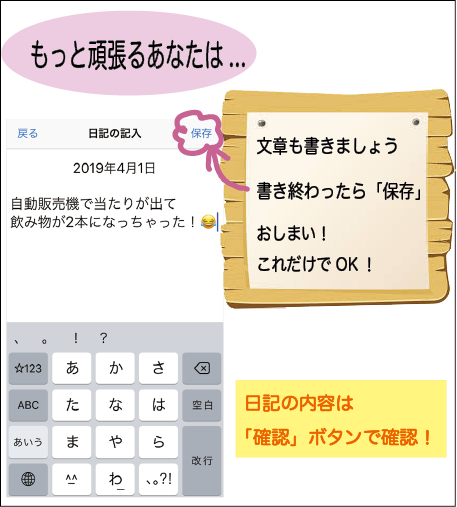
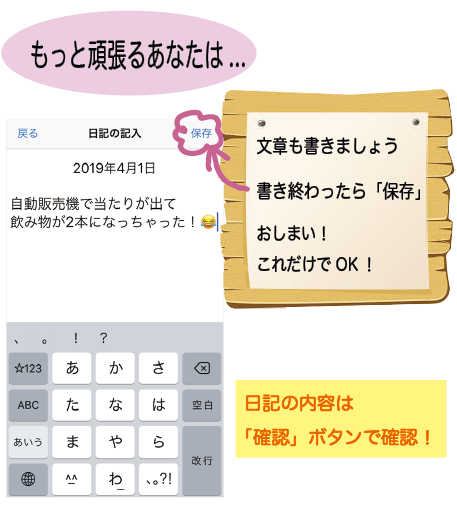
ヘルプ画面のスワイプ機能の実装、ヘルプ画面の画像の黒い枠を消した、アプデにむけて一旦アラーム設定のボタンをHidden

Changed region(s): [[0.0, 0.0, 1.0, 1.0], [0.0, 0.0, 0.0306, 0.0296]]

diff --git a/SimpleDiary_LiT!/AppDelegate.swift b/SimpleDiary_LiT!/AppDelegate.swift
@@ -12,9 +12,17 @@ import UserNotifications
 
 @UIApplicationMain
 class AppDelegate: UIResponder, UIApplicationDelegate {
-
+    
     var window: UIWindow?
-
+    var icon1 = 0
+    var icon2 = 0
+    var icon3 = 0
+    var icon4 = 0
+    var icon5 = 0
+    var icon6 = 0
+    var context: String!
+    var date: String!
+    
     func application(_ application: UIApplication, didFinishLaunchingWithOptions launchOptions: [UIApplication.LaunchOptionsKey: Any]?) -> Bool {
         // Override point for customization after application launch.
         
@@ -44,51 +52,59 @@ class AppDelegate: UIResponder, UIApplicationDelegate {
             UIApplication.shared.registerUserNotificationSettings(settings)
         }
         
-        let content = UNMutableNotificationContent()
-        content.title = "お知らせ"
-        content.subtitle = ""
-        content.body = "今日の記録は済みましたか？"
+        let dateFormater = DateFormatter()
+        dateFormater.locale = Locale(identifier: "ja_JP")
+        dateFormater.dateStyle = .long
+        let now = dateFormater.string(from: Date())
+        date = now
         
-        let component = DateComponents(calendar: Calendar.current, /*year: 2019, month: 6, day: 6, */hour: 12, minute: 43)
-        let trigger = UNCalendarNotificationTrigger(dateMatching: component, repeats: true)
-        
-        let request = UNNotificationRequest(identifier: "Identifier", content: content, trigger: trigger)
-        let center = UNUserNotificationCenter.current()
-        center.delegate = self as? UNUserNotificationCenterDelegate
-        center.add(request)
-        
-        // ローカル通知予約
-        UNUserNotificationCenter.current().add(request, withCompletionHandler: nil)
-        
+        let realm = try! Realm()
+        //文字列によるクエリ
+        if realm.objects(Diary.self).filter("date == '\(self.date!)'").last == nil {
+            print("データはありません")
+            let content = UNMutableNotificationContent()
+            content.title = "お知らせ"
+            content.subtitle = ""
+            content.body = "今日の記録は済みましたか？"
+            
+            let component = DateComponents(calendar: Calendar.current, /*year: 2019, month: 6, day: 6, */hour: 21, minute: 00)
+            let trigger = UNCalendarNotificationTrigger(dateMatching: component, repeats: true)
+            
+            let request = UNNotificationRequest(identifier: "Identifier", content: content, trigger: trigger)
+            let center = UNUserNotificationCenter.current()
+            center.delegate = self as? UNUserNotificationCenterDelegate
+            center.add(request)
+            
+            // ローカル通知予約
+            UNUserNotificationCenter.current().add(request, withCompletionHandler: nil)
+        }
         return true
     }
     
     func applicationWillTerminate(application: UIApplication) {
         print("フリックしてアプリを終了させた時に呼ばれる")
     }
-
+    
     func applicationWillResignActive(_ application: UIApplication) {
         // Sent when the application is about to move from active to inactive state. This can occur for certain types of temporary interruptions (such as an incoming phone call or SMS message) or when the user quits the application and it begins the transition to the background state.
         // Use this method to pause ongoing tasks, disable timers, and invalidate graphics rendering callbacks. Games should use this method to pause the game.
     }
-
+    
     func applicationDidEnterBackground(_ application: UIApplication) {
         // Use this method to release shared resources, save user data, invalidate timers, and store enough application state information to restore your application to its current state in case it is terminated later.
         // If your application supports background execution, this method is called instead of applicationWillTerminate: when the user quits.
     }
-
+    
     func applicationWillEnterForeground(_ application: UIApplication) {
         // Called as part of the transition from the background to the active state; here you can undo many of the changes made on entering the background.
     }
-
+    
     func applicationDidBecomeActive(_ application: UIApplication) {
         // Restart any tasks that were paused (or not yet started) while the application was inactive. If the application was previously in the background, optionally refresh the user interface.
     }
-
+    
     func applicationWillTerminate(_ application: UIApplication) {
         // Called when the application is about to terminate. Save data if appropriate. See also applicationDidEnterBackground:.
     }
-
-
 }
 

diff --git a/SimpleDiary_LiT!/HelpViewController.swift b/SimpleDiary_LiT!/HelpViewController.swift
@@ -53,6 +53,22 @@ class HelpViewController: UIViewController {
         imageView.image = UIImage(named: imageArray[number])
     }
     
+    @IBAction func leftSwipe(_ sender: UISwipeGestureRecognizer) {
+        number += 1
+        if number >= 3 {
+            number = 0
+        }
+        imageView.image = UIImage(named: imageArray[number])
+    }
+    
+    @IBAction func rightSwipe(_ sender: UISwipeGestureRecognizer) {
+        number -= 1
+        if number < 0 {
+            number = 2
+        }
+        imageView.image = UIImage(named: imageArray[number])
+    }
+    
     @IBAction func tapToCalendar(_ sender: UIButton) {
         //画面遷移して前の画面に戻る
         self.dismiss(animated: true, completion: nil)

diff --git a/SimpleDiary_LiT!/SettingViewController.swift b/SimpleDiary_LiT!/SettingViewController.swift
@@ -18,5 +18,6 @@ class SettingViewController: UIViewController {
     
     override func viewDidLoad() {
         super.viewDidLoad()
+        alarmButton.isHidden = true
     }
 }
